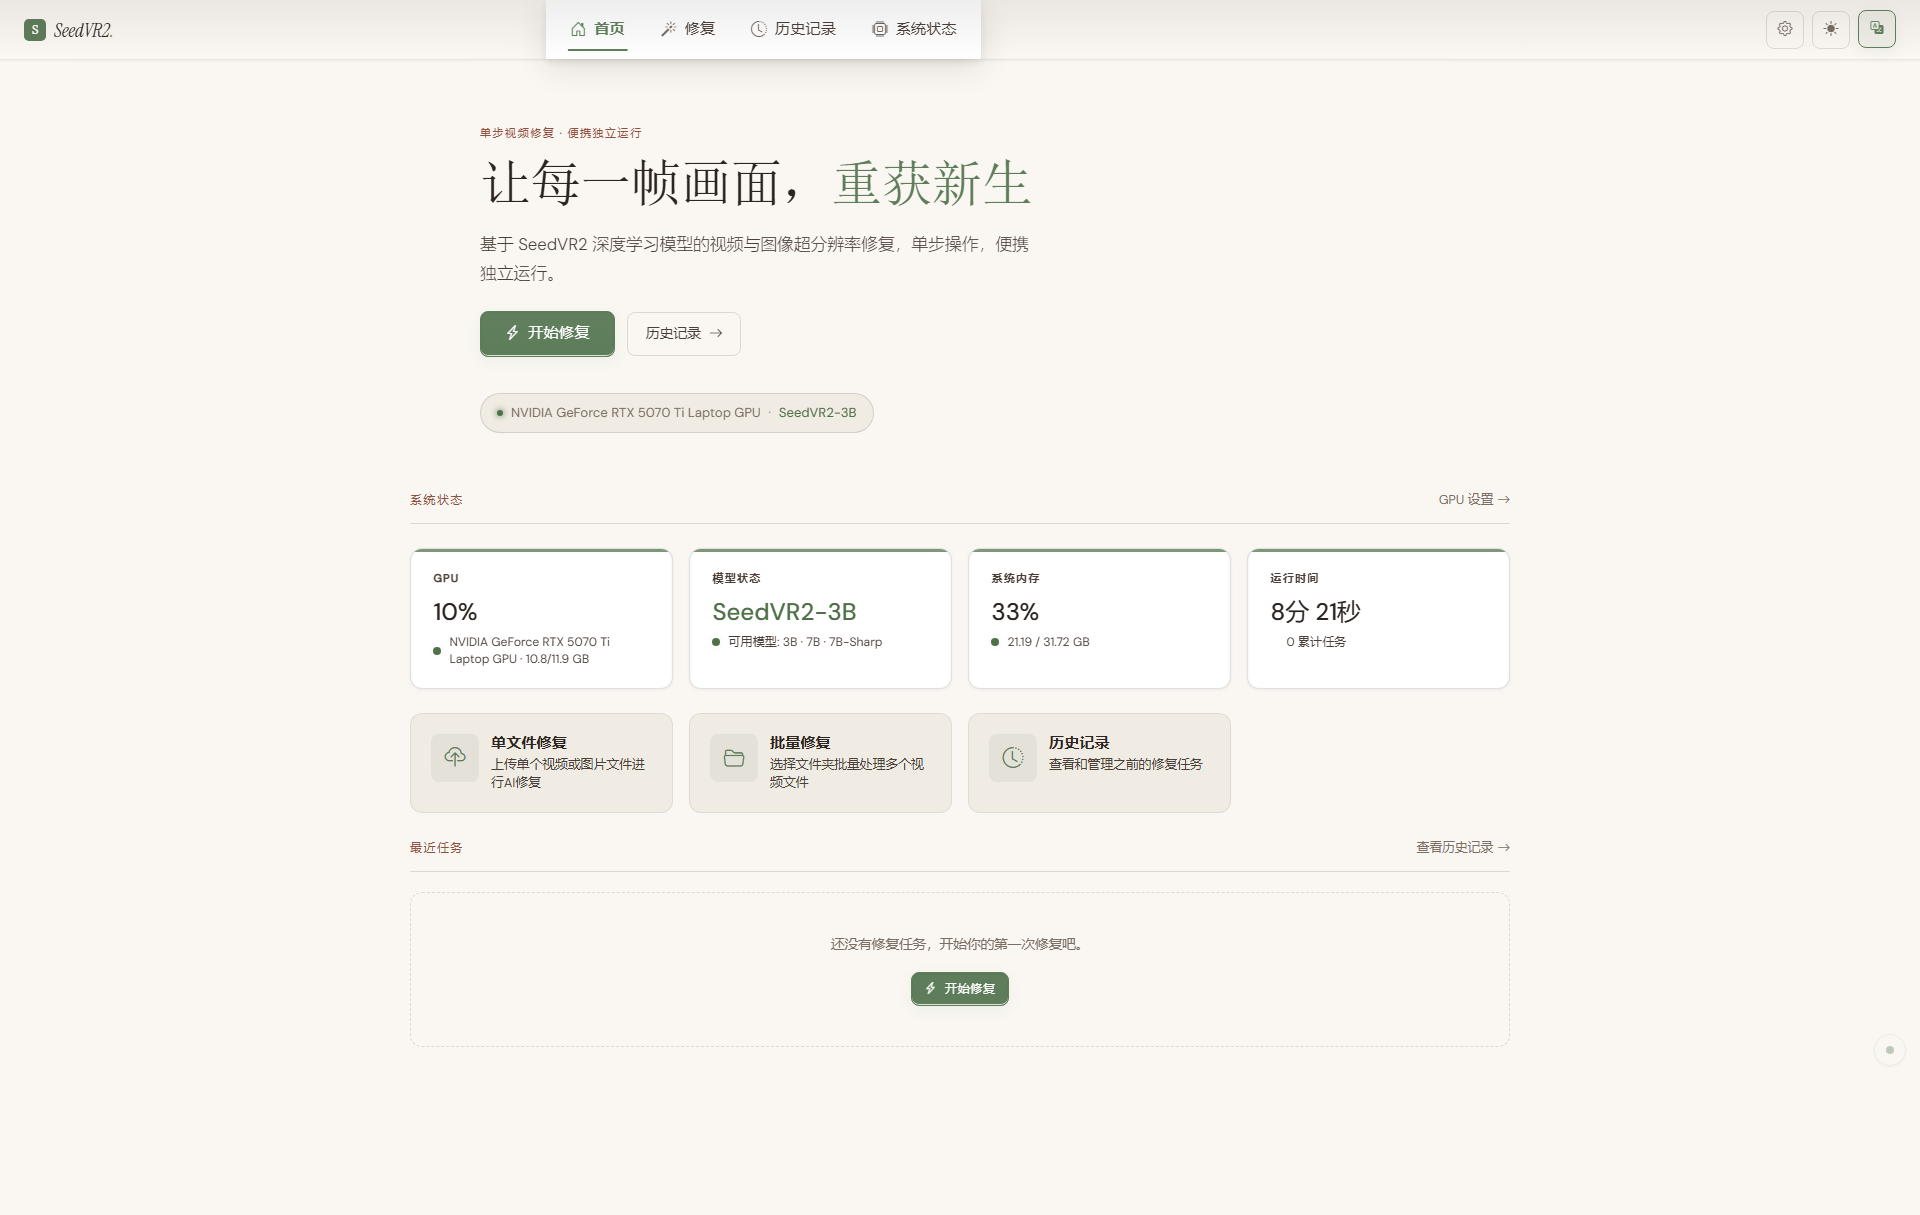
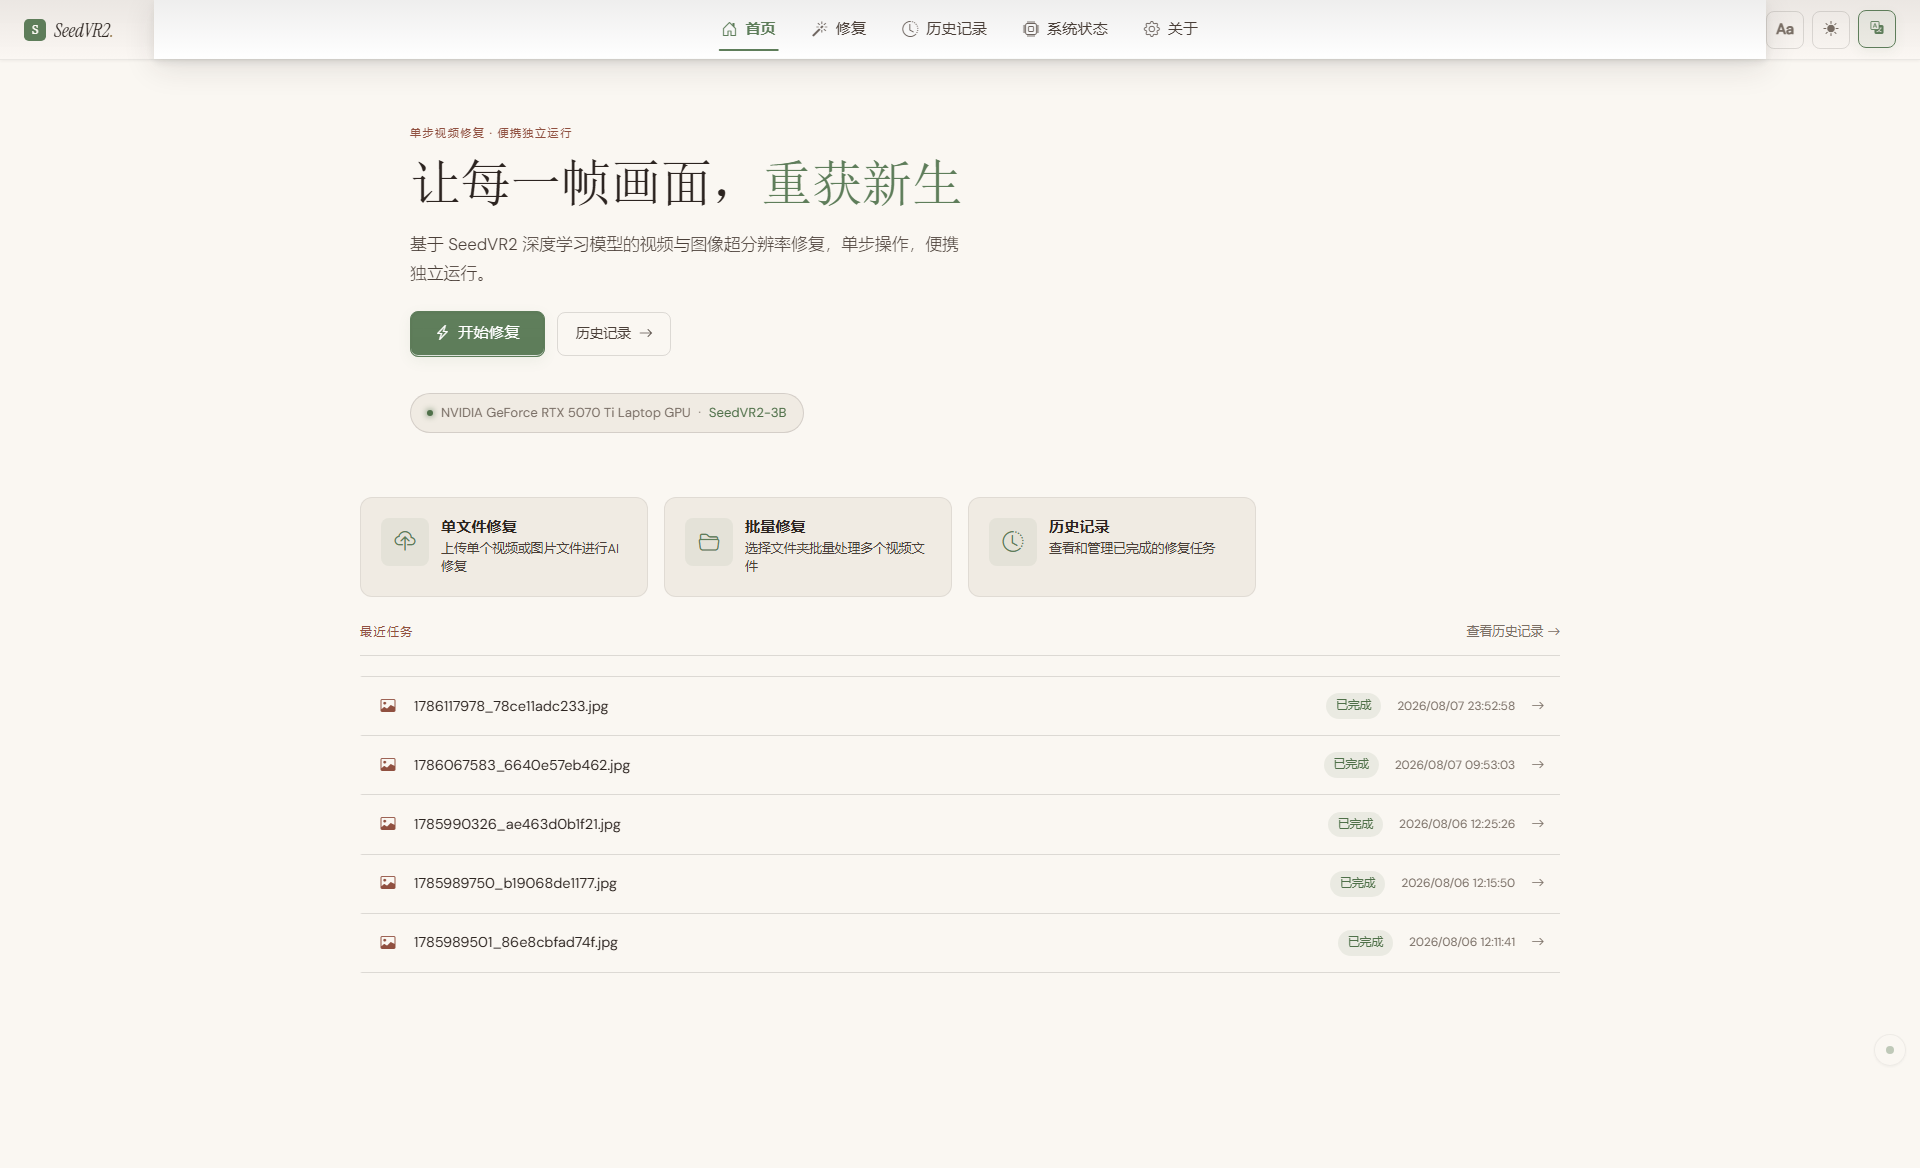
docs: 界面预览改为浅色截图并刷新截图资产
- README 只展示浅色主题截图（删除深色展示段落）
- 截图脚本输出同步到 docs/screenshots/current/light/（文件名与脚本对齐）
- 移除 docs/screenshots/current/dark/ 跟踪与过时 .gitignore 规则

diff --git a/README.md b/README.md
@@ -10,23 +10,17 @@
 
 ## 界面预览
 
-*深色主题 — 首页仪表盘 / 修复工作台 / 历史记录 / 系统状态*
-
-![首页深色](docs/screenshots/current/dark/01-home-full.png)
-
-![修复深色](docs/screenshots/current/dark/02-restore-default.png)
-
-![历史记录深色](docs/screenshots/current/dark/06-history-full.png)
-
-![系统状态深色](docs/screenshots/current/dark/07-system-status-full.png)
-
-*浅色主题 — 首页仪表盘 / 修复工作台 / 模型设置 / 多语言切换*
+*浅色主题 — 首页仪表盘 / 修复工作台 / 历史记录 / 系统状态 / 模型设置 / 多语言切换*
 
 ![首页浅色](docs/screenshots/current/light/01-home-full.png)
 
-![修复浅色](docs/screenshots/current/light/02-restore-default.png)
+![修复浅色](docs/screenshots/current/light/02-restore-single-default.png)
 
-![设置浅色](docs/screenshots/current/light/09-settings-model-tab.png)
+![历史记录浅色](docs/screenshots/current/light/06-history-table-view.png)
+
+![系统状态浅色](docs/screenshots/current/light/08-system-status-full.png)
+
+![设置浅色](docs/screenshots/current/light/09-settings-full.png)
 
 ![多语言切换浅色](docs/screenshots/current/light/11-locale-dropdown-open.png)
 
